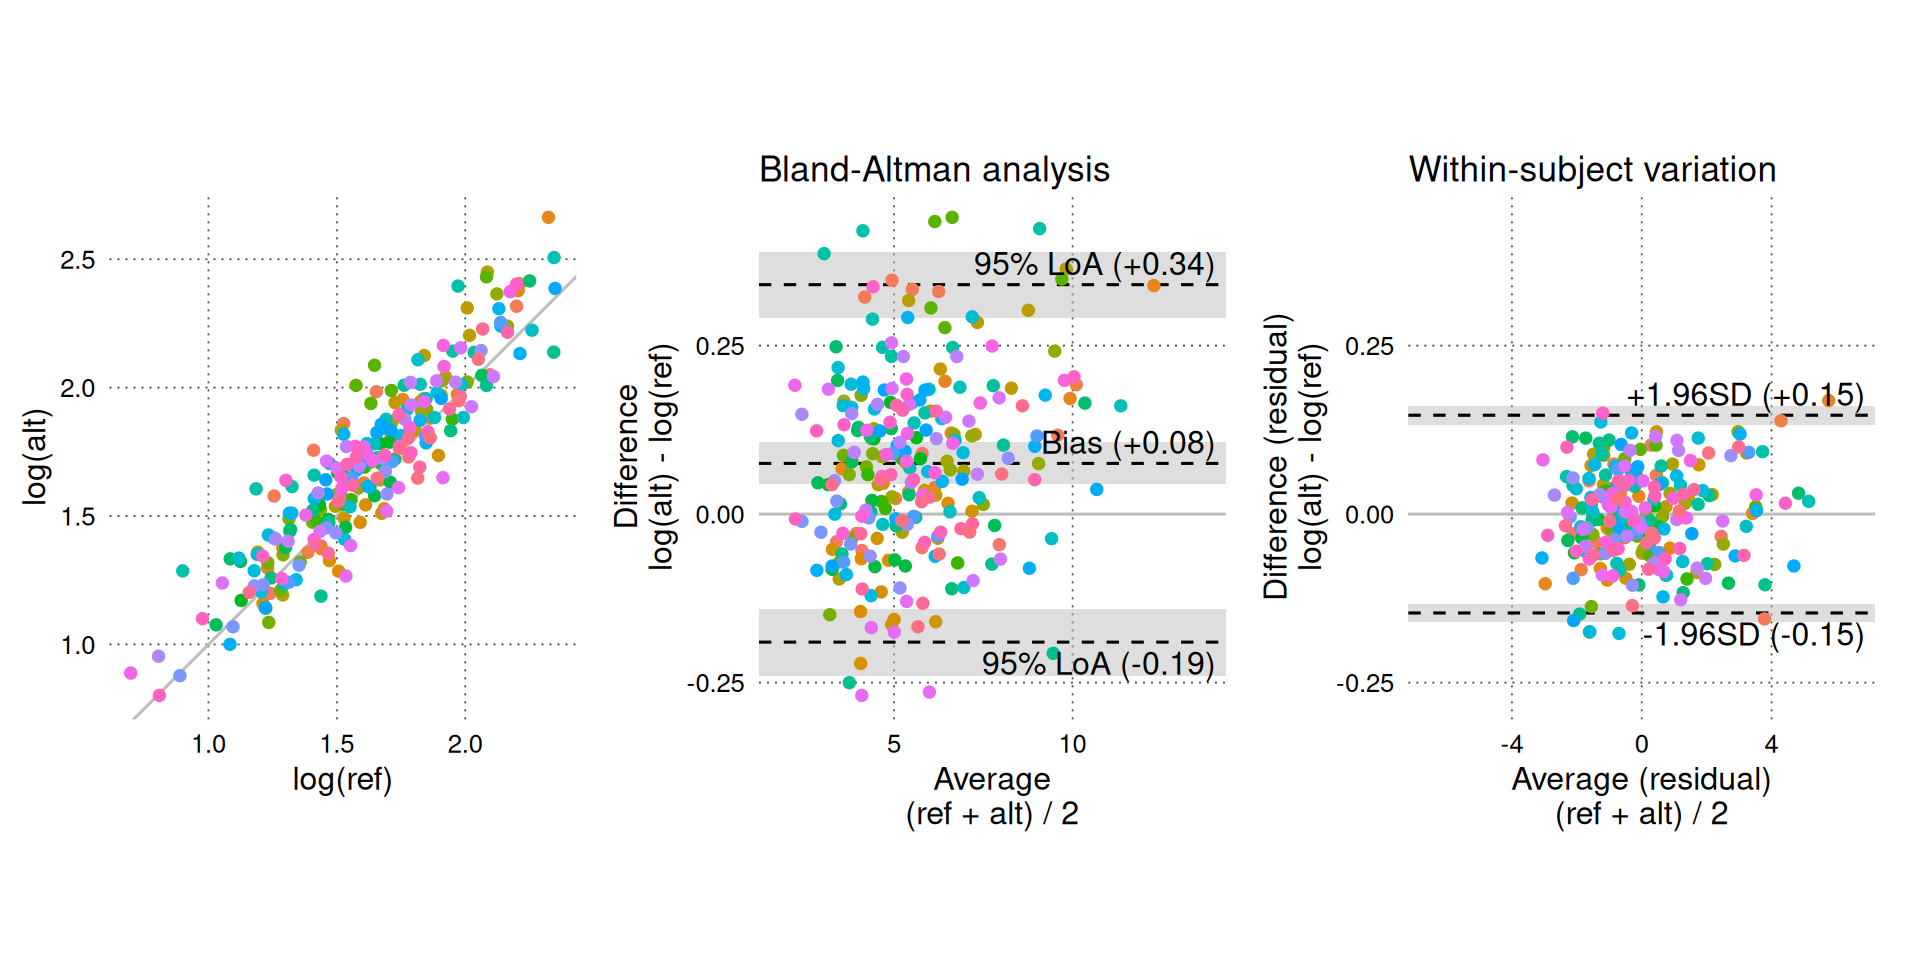
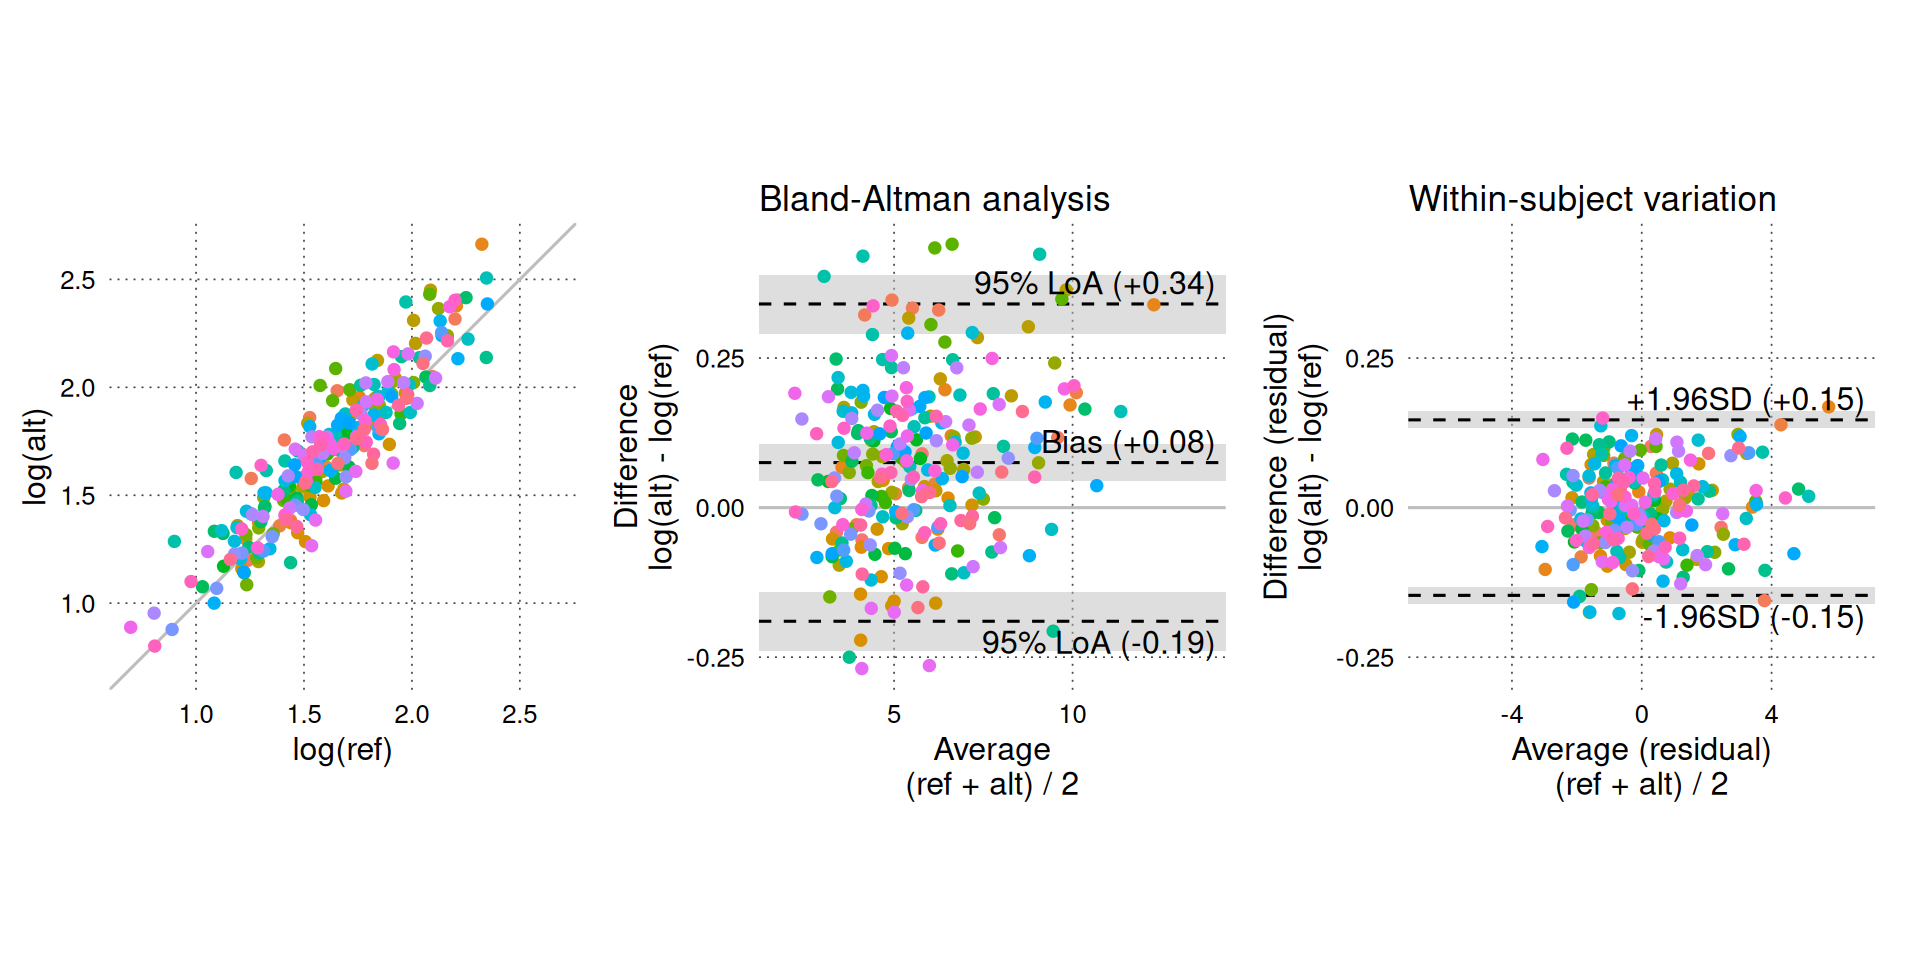
Deploying to gh-pages from @ JohannesNE/BAtrending@bf52f199f140cc9af1f1ff8ab8cc9f83cf472432 🚀

diff --git a/articles/BAtrending.html b/articles/BAtrending.html
@@ -158,26 +158,26 @@ or <code>remotes::install_github("JohannesNE/BAtrending")</code>.</div>
 <span><span class="co">#&gt; </span></span>
 <span><span class="co">#&gt;                                    est      [95% CI] </span></span>
 <span><span class="co">#&gt; === Distribution ===</span></span>
-<span><span class="co">#&gt; Mean                           :   5.035 [ 4.322;  5.776] </span></span>
-<span><span class="co">#&gt; Between-subject variation (SD) :   1.210 [ 0.690;  1.706] </span></span>
-<span><span class="co">#&gt; Within-subject variation (SD)  :   0.283 [ 0.226;  0.337] </span></span>
-<span><span class="co">#&gt; Total variation (SD)           :   1.243 [ 0.735;  1.730] </span></span>
+<span><span class="co">#&gt; Mean                           :   5.035 [ 4.322;  5.700] </span></span>
+<span><span class="co">#&gt; Between-subject variation (SD) :   1.210 [ 0.729;  1.746] </span></span>
+<span><span class="co">#&gt; Within-subject variation (SD)  :   0.283 [ 0.225;  0.341] </span></span>
+<span><span class="co">#&gt; Total variation (SD)           :   1.243 [ 0.783;  1.768] </span></span>
 <span><span class="co">#&gt; </span></span>
 <span><span class="co">#&gt; === Method comparison ===</span></span>
-<span><span class="co">#&gt; Bias (alt - ref)               :  -0.705 [-1.212; -0.167] </span></span>
-<span><span class="co">#&gt; Between-subject variation (SD) :   0.934 [ 0.521;  1.346] </span></span>
-<span><span class="co">#&gt; Within-subject variation (SD)  :   0.413 [ 0.331;  0.499] </span></span>
-<span><span class="co">#&gt; Total variation (SD)           :   1.022 [ 0.662;  1.412] </span></span>
+<span><span class="co">#&gt; Bias (alt - ref)               :  -0.705 [-1.240; -0.161] </span></span>
+<span><span class="co">#&gt; Between-subject variation (SD) :   0.934 [ 0.521;  1.322] </span></span>
+<span><span class="co">#&gt; Within-subject variation (SD)  :   0.413 [ 0.329;  0.492] </span></span>
+<span><span class="co">#&gt; Total variation (SD)           :   1.022 [ 0.674;  1.386] </span></span>
 <span><span class="co">#&gt; Intraclass correlation</span></span>
-<span><span class="co">#&gt; └ Between/Total variance       :   0.836 [ 0.605;  0.922] </span></span>
+<span><span class="co">#&gt; └ Between/Total variance       :   0.836 [ 0.600;  0.926] </span></span>
 <span><span class="co">#&gt; Limits of agreement (95%)</span></span>
-<span><span class="co">#&gt; ├ Upper limit                  :   1.298 [ 0.425;  2.235] </span></span>
-<span><span class="co">#&gt; └ Lower limit                  :  -2.707 [-3.603; -1.823] </span></span>
-<span><span class="co">#&gt; Percentage error               :   0.398 [ 0.258;  0.551] </span></span>
+<span><span class="co">#&gt; ├ Upper limit                  :   1.298 [ 0.384;  2.192] </span></span>
+<span><span class="co">#&gt; └ Lower limit                  :  -2.707 [-3.550; -1.858] </span></span>
+<span><span class="co">#&gt; Percentage error               :   0.398 [ 0.263;  0.541] </span></span>
 <span><span class="co">#&gt; </span></span>
 <span><span class="co">#&gt; --- Trending ---</span></span>
-<span><span class="co">#&gt; Within-subject perc. error     :   0.161 [ 0.129;  0.195] </span></span>
-<span><span class="co">#&gt; Change LoA [±] (95%)           :   1.146 [ 0.919;  1.382]</span></span></code></pre></div>
+<span><span class="co">#&gt; Within-subject perc. error     :   0.161 [ 0.128;  0.192] </span></span>
+<span><span class="co">#&gt; Change LoA [±] (95%)           :   1.146 [ 0.912;  1.365]</span></span></code></pre></div>
 </div>
 <p>A publication-ready table is created with:</p>
 <div class="cell" data-layout-align="center">
@@ -198,33 +198,33 @@ or <code>remotes::install_github("JohannesNE/BAtrending")</code>.</div>
     };
     </script><!-- tinytable mathjax end --><script src="https://cdn.jsdelivr.net/gh/vincentarelbundock/tinytable@main/inst/tinytable.js"></script><script>
       // Create table-specific functions using external factory
-      const tableFns_vhsm5efwx31d2p23x5q7 = TinyTable.createTableFunctions("tinytable_vhsm5efwx31d2p23x5q7");
+      const tableFns_5hgm8izgiufxw0ga3nn3 = TinyTable.createTableFunctions("tinytable_5hgm8izgiufxw0ga3nn3");
       // tinytable span after
-      window.addEventListener('load', function () { tableFns_vhsm5efwx31d2p23x5q7.spanCell(11, 1, 1, 2) })
-      window.addEventListener('load', function () { tableFns_vhsm5efwx31d2p23x5q7.spanCell(6, 1, 1, 2) })
-      window.addEventListener('load', function () { tableFns_vhsm5efwx31d2p23x5q7.spanCell(1, 1, 1, 2) })
+      window.addEventListener('load', function () { tableFns_5hgm8izgiufxw0ga3nn3.spanCell(11, 1, 1, 2) })
+      window.addEventListener('load', function () { tableFns_5hgm8izgiufxw0ga3nn3.spanCell(6, 1, 1, 2) })
+      window.addEventListener('load', function () { tableFns_5hgm8izgiufxw0ga3nn3.spanCell(1, 1, 1, 2) })
       window.addEventListener('load', function () {
           var cellsToStyle = [
             // tinytable style arrays after
-          { positions: [ { i: '16', j: 1 }, { i: '16', j: 2 } ], css_id: 'tinytable_css_tzski81tdg7yrbsx1kr0',},
-          { positions: [ { i: '0', j: 1 }, { i: '0', j: 2 } ], css_id: 'tinytable_css_3y8pxtq3j6ouvew5d7wp',},
+          { positions: [ { i: '16', j: 1 }, { i: '16', j: 2 } ], css_id: 'tinytable_css_d3yvud13dp3jhyftrtw3',},
+          { positions: [ { i: '0', j: 1 }, { i: '0', j: 2 } ], css_id: 'tinytable_css_64kg1a55le2oheynmi3i',},
           ];
 
           // Loop over the arrays to style the cells
           cellsToStyle.forEach(function (group) {
               group.positions.forEach(function (cell) {
-                  tableFns_vhsm5efwx31d2p23x5q7.styleCell(cell.i, cell.j, group.css_id);
+                  tableFns_5hgm8izgiufxw0ga3nn3.styleCell(cell.i, cell.j, group.css_id);
               });
           });
       });
     </script><link rel="stylesheet" href="https://cdn.jsdelivr.net/gh/vincentarelbundock/tinytable@main/inst/tinytable.css">
 <style>
     /* tinytable css entries after */
-    #tinytable_vhsm5efwx31d2p23x5q7 td.tinytable_css_tzski81tdg7yrbsx1kr0, #tinytable_vhsm5efwx31d2p23x5q7 th.tinytable_css_tzski81tdg7yrbsx1kr0 {  position: relative; --border-bottom: 1; --border-left: 0; --border-right: 0; --border-top: 0; --line-color-bottom: black; --line-color-left: black; --line-color-right: black; --line-color-top: black; --line-width-bottom: 0.1em; --line-width-left: 0.1em; --line-width-right: 0.1em; --line-width-top: 0.1em; --trim-bottom-left: 0%; --trim-bottom-right: 0%; --trim-left-bottom: 0%; --trim-left-top: 0%; --trim-right-bottom: 0%; --trim-right-top: 0%; --trim-top-left: 0%; --trim-top-right: 0%;  }
-    #tinytable_vhsm5efwx31d2p23x5q7 td.tinytable_css_3y8pxtq3j6ouvew5d7wp, #tinytable_vhsm5efwx31d2p23x5q7 th.tinytable_css_3y8pxtq3j6ouvew5d7wp {  position: relative; --border-bottom: 1; --border-left: 0; --border-right: 0; --border-top: 1; --line-color-bottom: black; --line-color-left: black; --line-color-right: black; --line-color-top: black; --line-width-bottom: 0.05em; --line-width-left: 0.1em; --line-width-right: 0.1em; --line-width-top: 0.1em; --trim-bottom-left: 0%; --trim-bottom-right: 0%; --trim-left-bottom: 0%; --trim-left-top: 0%; --trim-right-bottom: 0%; --trim-right-top: 0%; --trim-top-left: 0%; --trim-top-right: 0%;  }
+    #tinytable_5hgm8izgiufxw0ga3nn3 td.tinytable_css_d3yvud13dp3jhyftrtw3, #tinytable_5hgm8izgiufxw0ga3nn3 th.tinytable_css_d3yvud13dp3jhyftrtw3 {  position: relative; --border-bottom: 1; --border-left: 0; --border-right: 0; --border-top: 0; --line-color-bottom: black; --line-color-left: black; --line-color-right: black; --line-color-top: black; --line-width-bottom: 0.1em; --line-width-left: 0.1em; --line-width-right: 0.1em; --line-width-top: 0.1em; --trim-bottom-left: 0%; --trim-bottom-right: 0%; --trim-left-bottom: 0%; --trim-left-top: 0%; --trim-right-bottom: 0%; --trim-right-top: 0%; --trim-top-left: 0%; --trim-top-right: 0%;  }
+    #tinytable_5hgm8izgiufxw0ga3nn3 td.tinytable_css_64kg1a55le2oheynmi3i, #tinytable_5hgm8izgiufxw0ga3nn3 th.tinytable_css_64kg1a55le2oheynmi3i {  position: relative; --border-bottom: 1; --border-left: 0; --border-right: 0; --border-top: 1; --line-color-bottom: black; --line-color-left: black; --line-color-right: black; --line-color-top: black; --line-width-bottom: 0.05em; --line-width-left: 0.1em; --line-width-right: 0.1em; --line-width-top: 0.1em; --trim-bottom-left: 0%; --trim-bottom-right: 0%; --trim-left-bottom: 0%; --trim-left-top: 0%; --trim-right-bottom: 0%; --trim-right-top: 0%; --trim-top-left: 0%; --trim-top-right: 0%;  }
     </style>
 <div class="container">
-      <table class="table tinytable" id="tinytable_vhsm5efwx31d2p23x5q7" style="width: auto; margin-left: auto; margin-right: auto;" data-quarto-disable-processing="true">
+      <table class="table tinytable" id="tinytable_5hgm8izgiufxw0ga3nn3" style="width: auto; margin-left: auto; margin-right: auto;" data-quarto-disable-processing="true">
 <thead><tr>
 <th scope="col" data-row="0" data-col="1"></th>
                 <th scope="col" data-row="0" data-col="2">Estimate [95% CI]</th>
@@ -248,11 +248,11 @@ or <code>remotes::install_github("JohannesNE/BAtrending")</code>.</div>
                 </tr>
 <tr>
 <td data-row="2" data-col="1">Mean</td>
-                  <td data-row="2" data-col="2">5.03 [4.32; 5.78]</td>
+                  <td data-row="2" data-col="2">5.03 [4.32; 5.70]</td>
                 </tr>
 <tr>
 <td data-row="3" data-col="1">Between-subject SD</td>
-                  <td data-row="3" data-col="2">1.21 [0.69; 1.71]</td>
+                  <td data-row="3" data-col="2">1.21 [0.73; 1.75]</td>
                 </tr>
 <tr>
 <td data-row="4" data-col="1">Within-subject SD</td>
@@ -260,7 +260,7 @@ or <code>remotes::install_github("JohannesNE/BAtrending")</code>.</div>
                 </tr>
 <tr>
 <td data-row="5" data-col="1">Total SD</td>
-                  <td data-row="5" data-col="2">1.24 [0.73; 1.73]</td>
+                  <td data-row="5" data-col="2">1.24 [0.78; 1.77]</td>
                 </tr>
 <tr>
 <td data-row="6" data-col="1"><strong>Method comparison (alt - ref)</strong></td>
@@ -268,19 +268,19 @@ or <code>remotes::install_github("JohannesNE/BAtrending")</code>.</div>
                 </tr>
 <tr>
 <td data-row="7" data-col="1">Bias (\(bias_D\))</td>
-                  <td data-row="7" data-col="2">-0.70 [-1.21; -0.17]</td>
+                  <td data-row="7" data-col="2">-0.70 [-1.24; -0.16]</td>
                 </tr>
 <tr>
 <td data-row="8" data-col="1">Between-subject SD (\(\sigma_{between,D}\))</td>
-                  <td data-row="8" data-col="2">0.93 [0.52; 1.35]</td>
+                  <td data-row="8" data-col="2">0.93 [0.52; 1.32]</td>
                 </tr>
 <tr>
 <td data-row="9" data-col="1">Within-subject SD (\(\sigma_{within,D}\))</td>
-                  <td data-row="9" data-col="2">0.41 [0.33; 0.50]</td>
+                  <td data-row="9" data-col="2">0.41 [0.33; 0.49]</td>
                 </tr>
 <tr>
 <td data-row="10" data-col="1">Total SD (\(\sigma_{total,D}\))</td>
-                  <td data-row="10" data-col="2">1.02 [0.66; 1.41]</td>
+                  <td data-row="10" data-col="2">1.02 [0.67; 1.39]</td>
                 </tr>
 <tr>
 <td data-row="11" data-col="1">Limits of agreement (95%)</td>
@@ -288,26 +288,26 @@ or <code>remotes::install_github("JohannesNE/BAtrending")</code>.</div>
                 </tr>
 <tr>
 <td data-row="12" data-col="1">  Upper limit</td>
-                  <td data-row="12" data-col="2">1.30 [0.42; 2.23]</td>
+                  <td data-row="12" data-col="2">1.30 [0.38; 2.19]</td>
                 </tr>
 <tr>
 <td data-row="13" data-col="1">  Lower limit</td>
-                  <td data-row="13" data-col="2">-2.71 [-3.60; -1.82]</td>
+                  <td data-row="13" data-col="2">-2.71 [-3.55; -1.86]</td>
                 </tr>
 <tr>
 <td data-row="14" data-col="1">Percentage error<sup>2</sup>
 </td>
-                  <td data-row="14" data-col="2">39.8 [25.8; 55.1] %</td>
+                  <td data-row="14" data-col="2">39.8 [26.3; 54.1] %</td>
                 </tr>
 <tr>
 <td data-row="15" data-col="1">Within-subject percentage error<sup>2</sup>
 </td>
-                  <td data-row="15" data-col="2">16.1 [12.9; 19.5] %</td>
+                  <td data-row="15" data-col="2">16.1 [12.8; 19.2] %</td>
                 </tr>
 <tr>
 <td data-row="16" data-col="1">Change limits of agreement (95%)<sup>3</sup>
 </td>
-                  <td data-row="16" data-col="2">±1.15 [0.92; 1.38]</td>
+                  <td data-row="16" data-col="2">±1.15 [0.91; 1.37]</td>
                 </tr>
 </tbody>
 </table>

diff --git a/reference/BA_plot_scatter.html b/reference/BA_plot_scatter.html
@@ -46,7 +46,8 @@
     <h2 id="ref-usage">Usage<a class="anchor" aria-label="anchor" href="#ref-usage"></a></h2>
     <div class="sourceCode"><pre class="sourceCode r"><code><span><span class="fu">BA_plot_scatter</span><span class="op">(</span></span>
 <span>  <span class="va">ba_obj</span>,</span>
-<span>  aspect_ratio <span class="op">=</span> <span class="cn">NULL</span>,</span>
+<span>  aspect_ratio <span class="op">=</span> <span class="fl">1</span>,</span>
+<span>  square_plot <span class="op">=</span> <span class="cn">TRUE</span>,</span>
 <span>  show_subject_legend <span class="op">=</span> <span class="cn">FALSE</span>,</span>
 <span>  keep_log_scale <span class="op">=</span> <span class="cn">FALSE</span></span>
 <span><span class="op">)</span></span></code></pre></div>
@@ -62,6 +63,10 @@
 
 <dt id="arg-aspect-ratio">aspect_ratio<a class="anchor" aria-label="anchor" href="#arg-aspect-ratio"></a></dt>
 <dd><p>Set aspect ratio (x/y) between X and Y axis (sets <code><a href="https://ggplot2.tidyverse.org/reference/coord_fixed.html" class="external-link">ggplot2::coord_fixed()</a></code>), Default (NULL) is automatic.</p></dd>
+
+
+<dt id="arg-square-plot">square_plot<a class="anchor" aria-label="anchor" href="#arg-square-plot"></a></dt>
+<dd><p>Use the same range for X and Y axes.</p></dd>
 
 
 <dt id="arg-show-subject-legend">show_subject_legend<a class="anchor" aria-label="anchor" href="#arg-show-subject-legend"></a></dt>

diff --git a/reference/BA_plot_combine.html b/reference/BA_plot_combine.html
@@ -64,7 +64,9 @@
 
 
 <dt id="arg-aspect-ratio">aspect_ratio<a class="anchor" aria-label="anchor" href="#arg-aspect-ratio"></a></dt>
-<dd><p>Set aspect ratio (x/y) between X and Y axis (sets <code><a href="https://ggplot2.tidyverse.org/reference/coord_fixed.html" class="external-link">ggplot2::coord_fixed()</a></code>), Default (NULL) is automatic.</p></dd>
+<dd><p>Set aspect ratio (x/y) between X and Y axis (sets <code><a href="https://ggplot2.tidyverse.org/reference/coord_fixed.html" class="external-link">ggplot2::coord_fixed()</a></code>),
+Default (NULL) is automatic.
+This only applies to the BA plots. The scatter plot always have an aspect ratio of 1.</p></dd>
 
 
 <dt id="arg-show-subject-legend">show_subject_legend<a class="anchor" aria-label="anchor" href="#arg-show-subject-legend"></a></dt>
